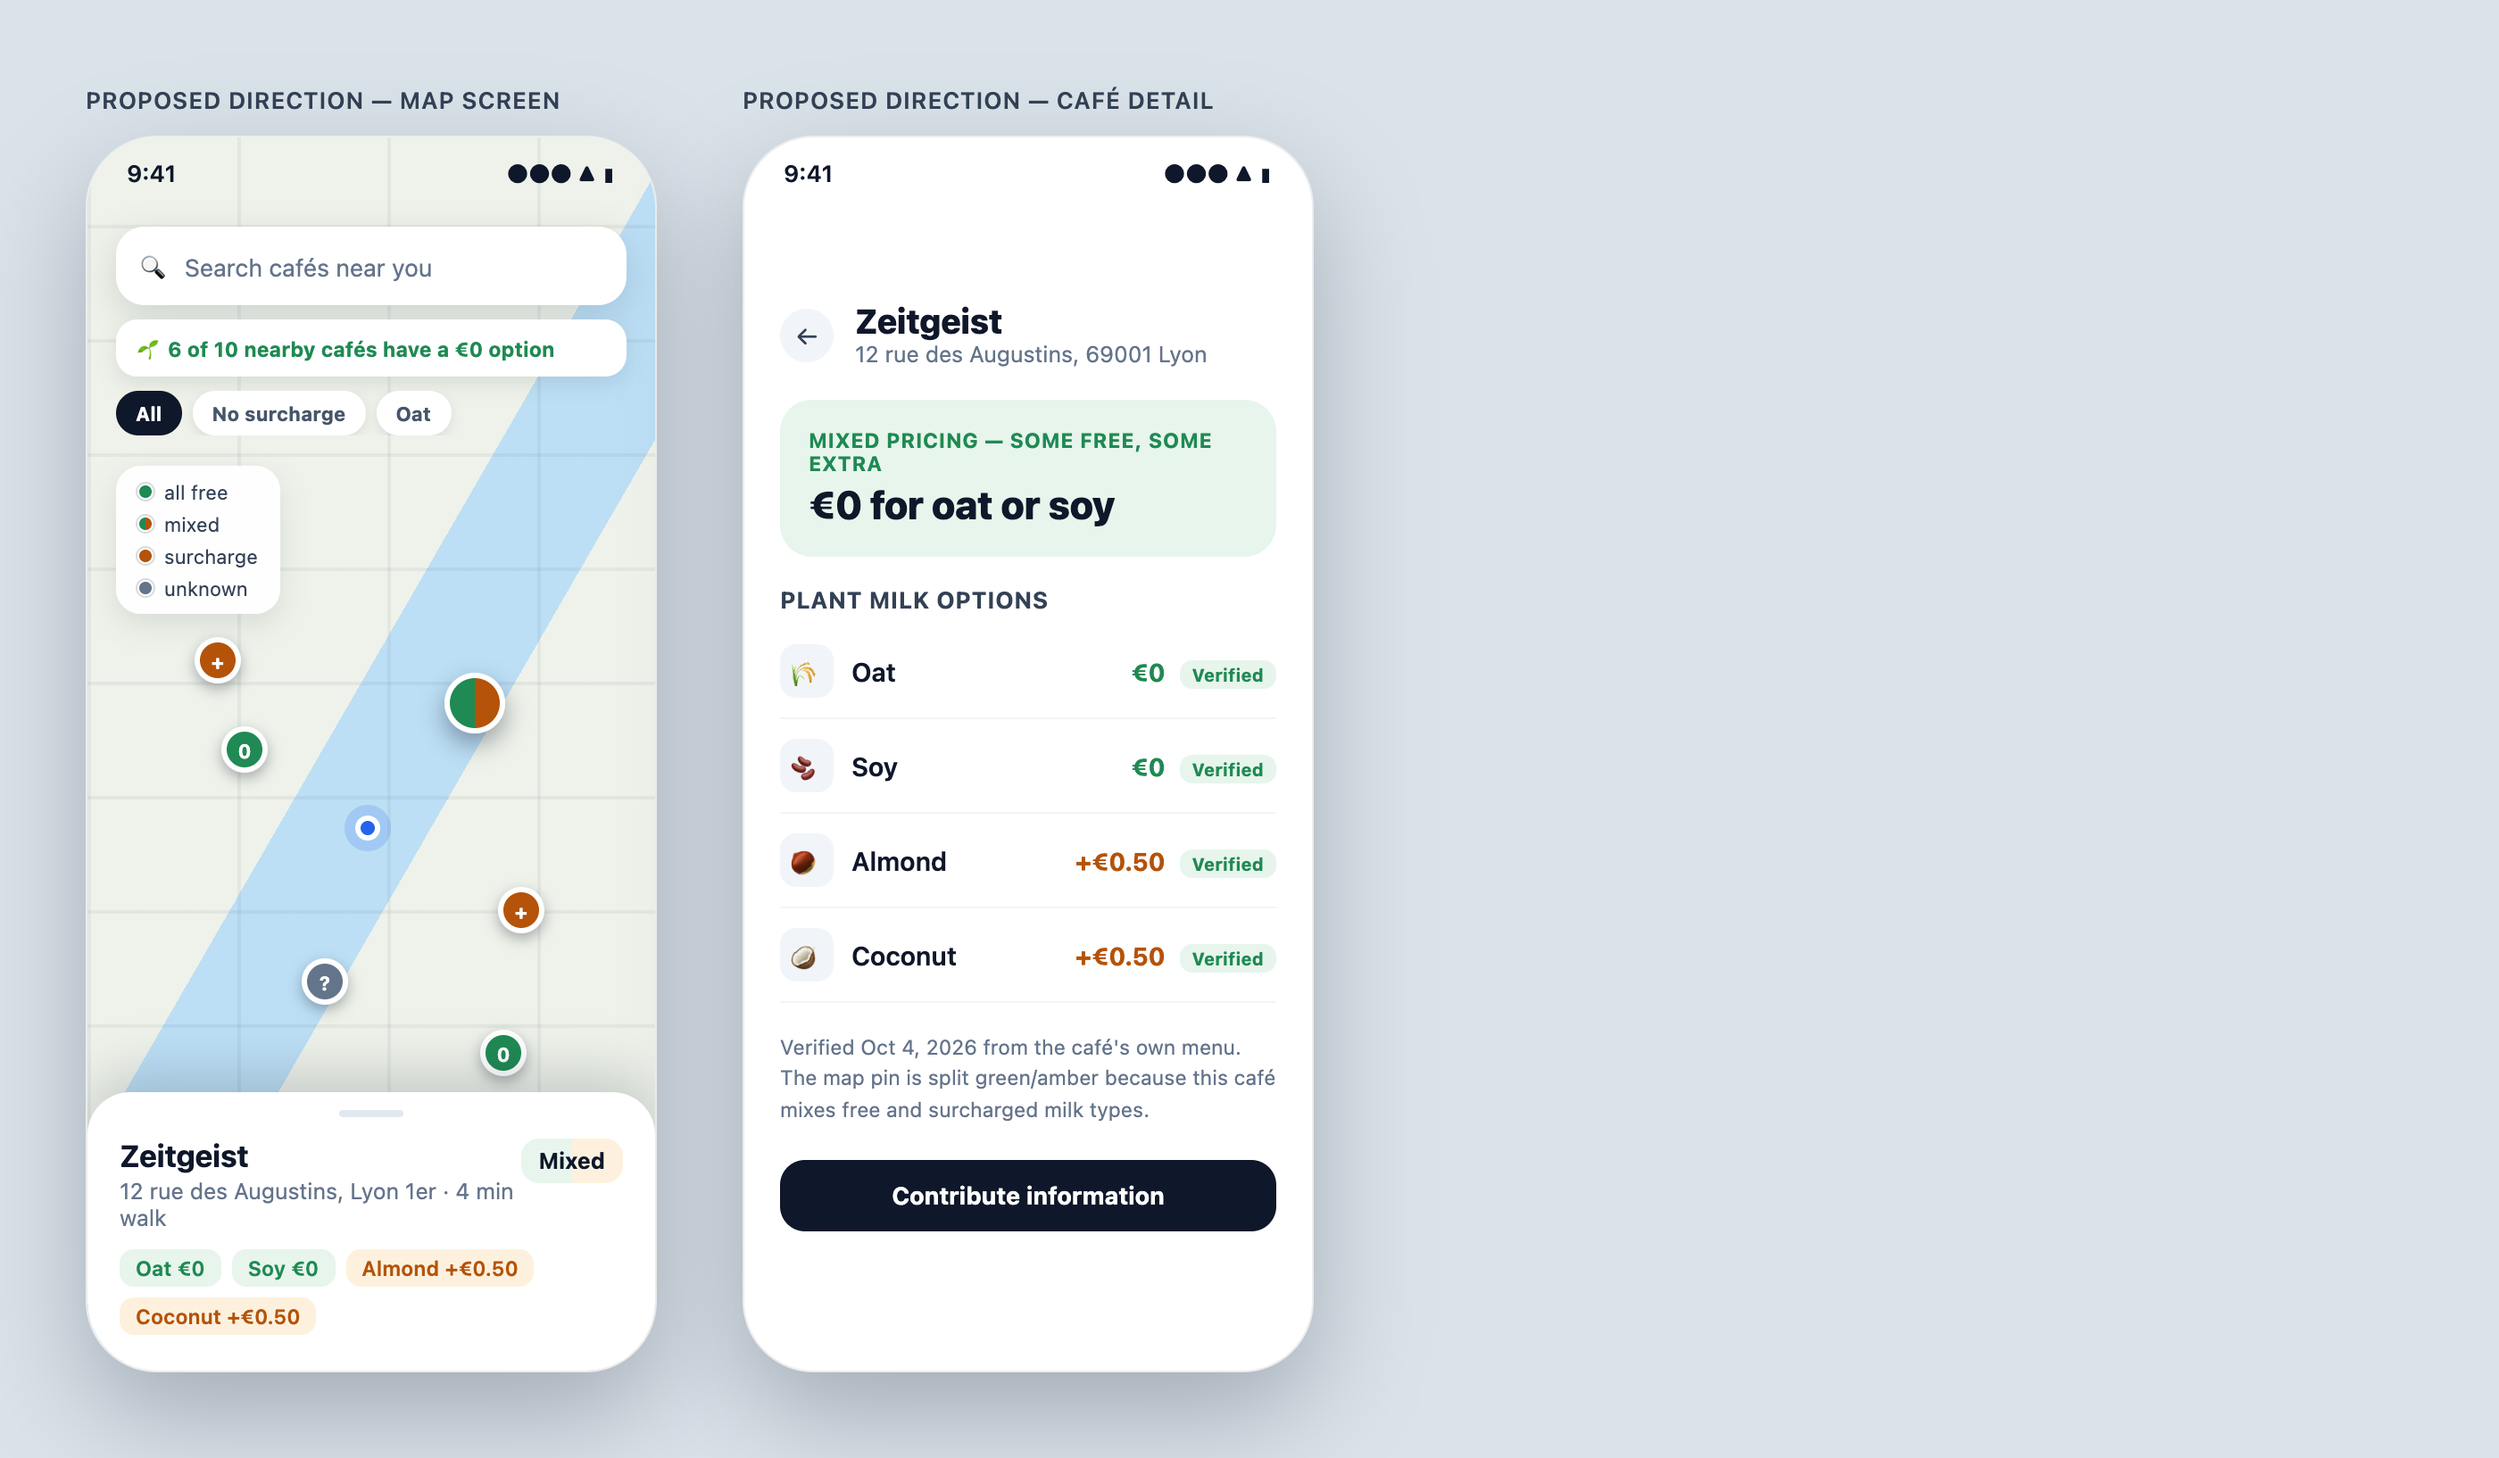
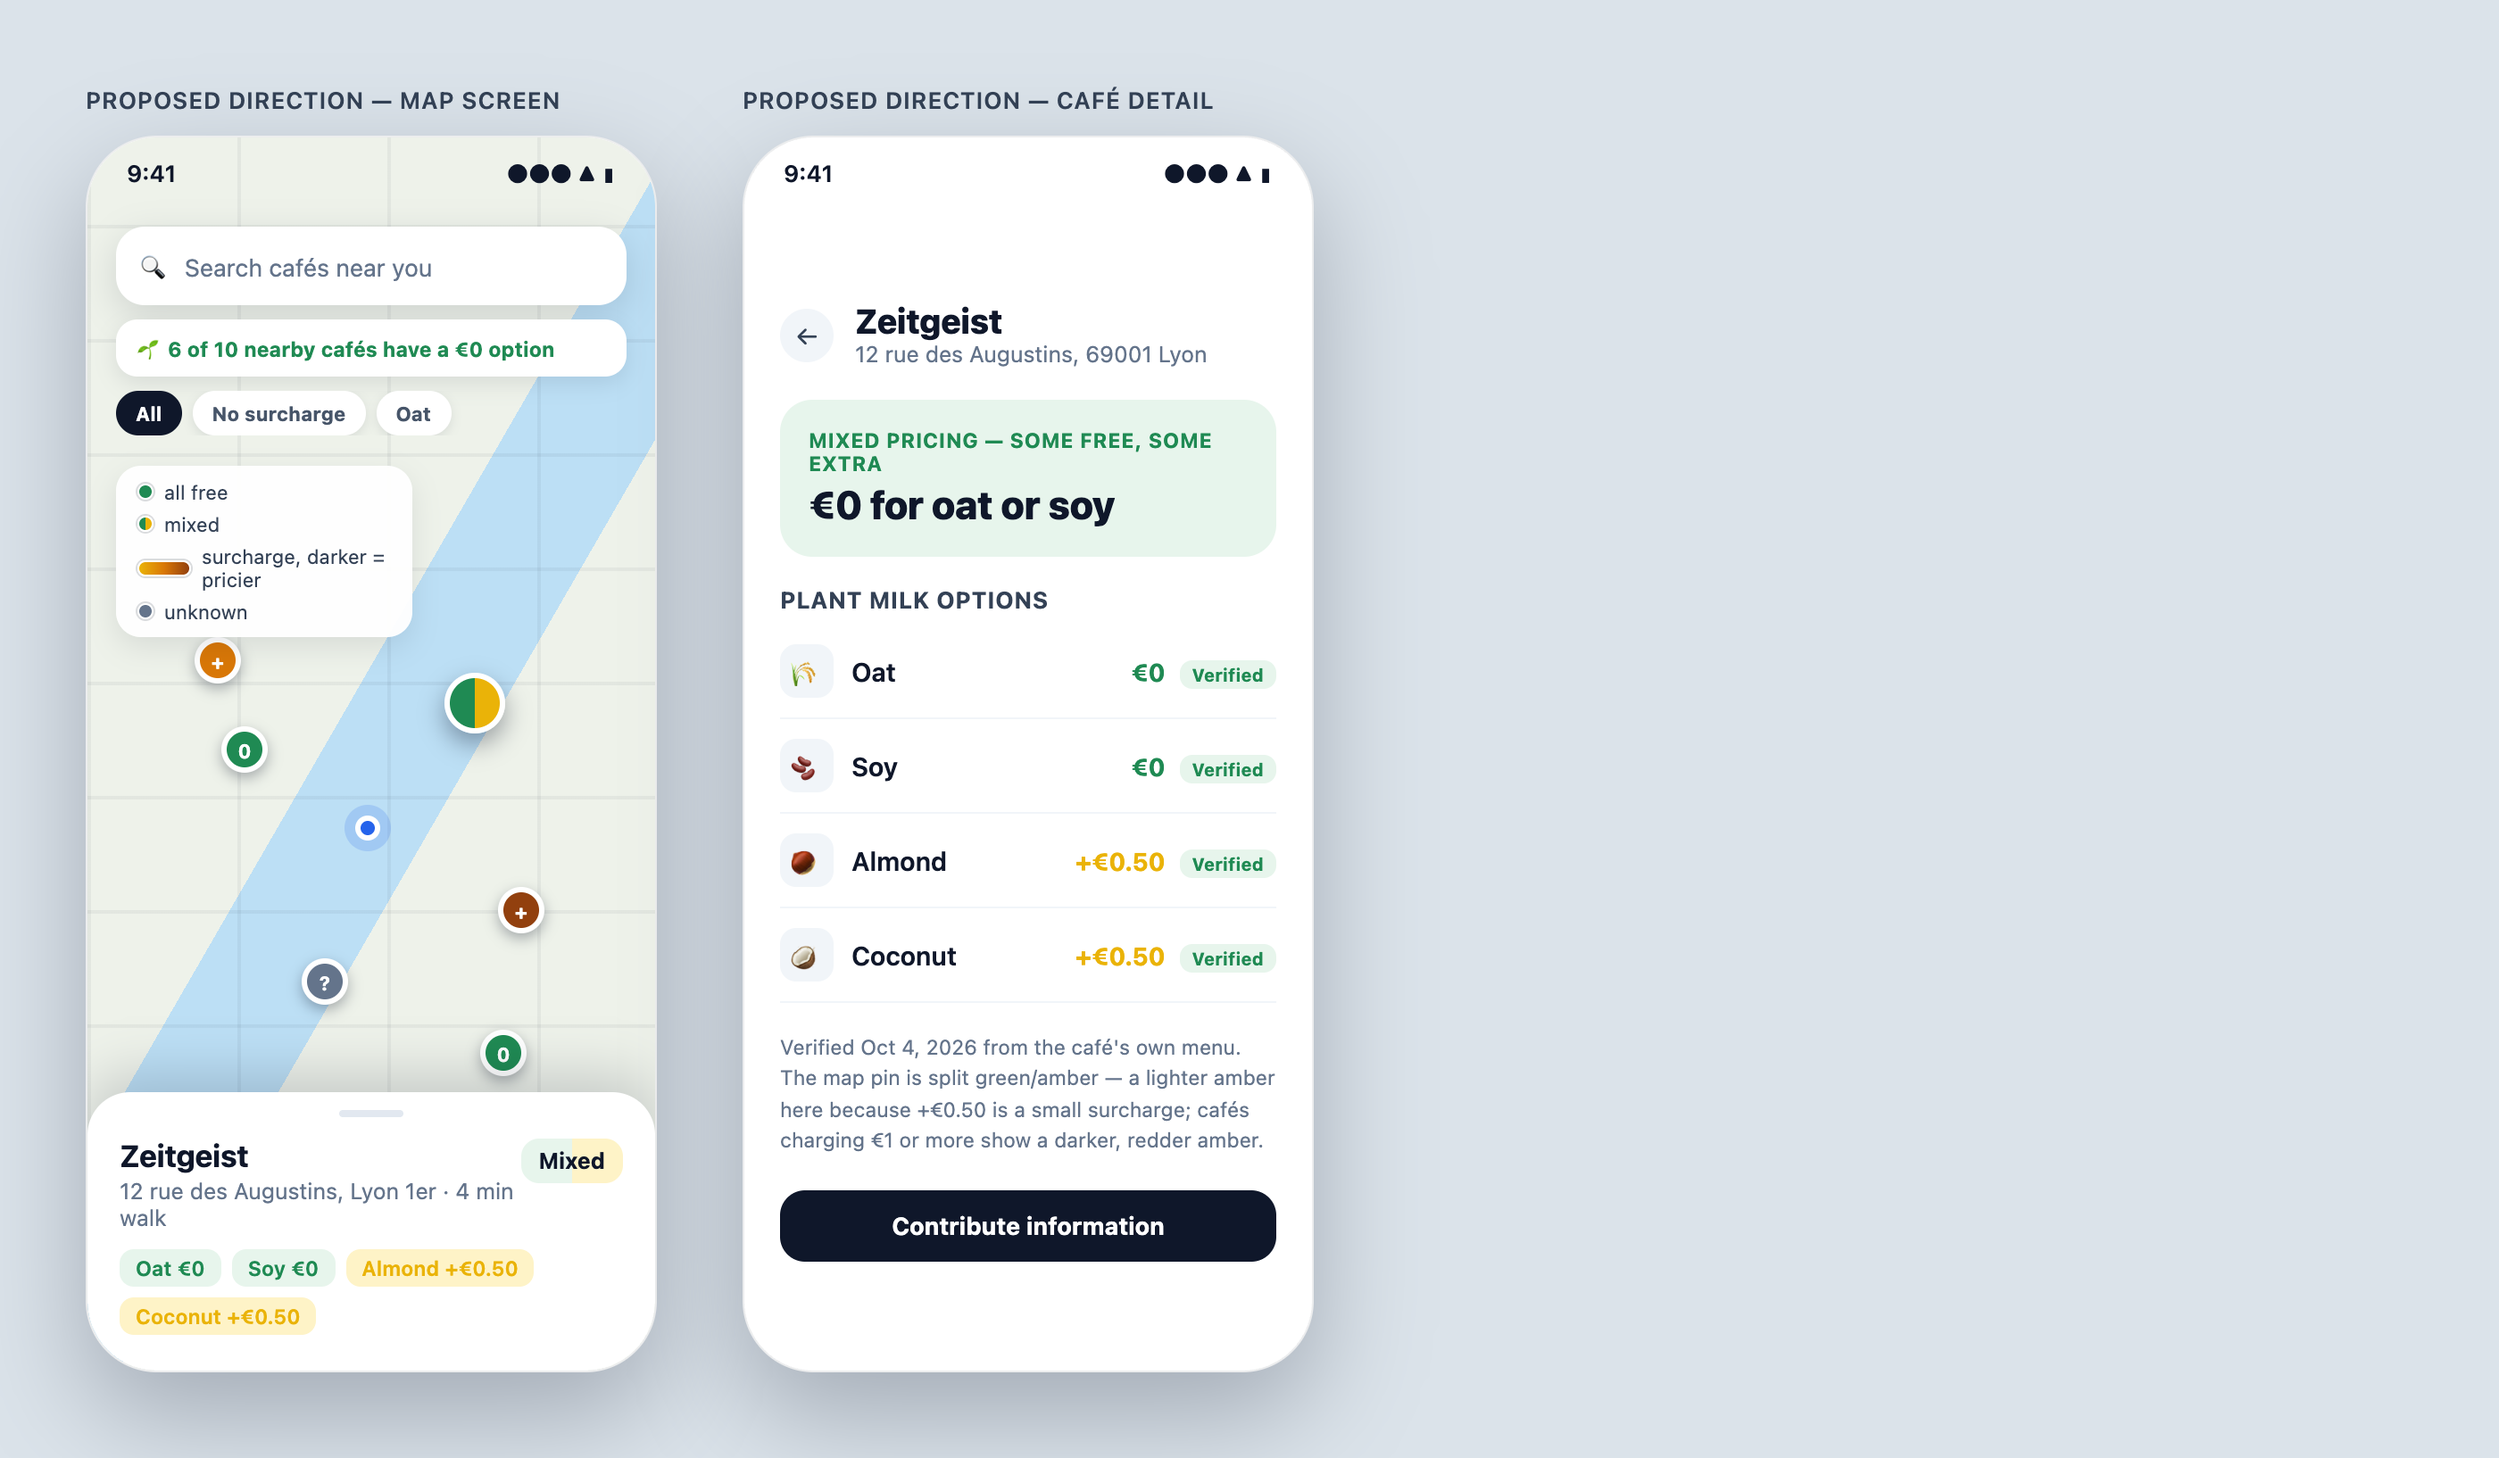
Scale the proposed direction's amber by surcharge size
Kevin asked for the surcharge color itself to vary by how large it
is, not just flag "surcharge vs. not". Amber is now a 3-step
gold/orange/brown scale (≤€0.50 / €0.51-0.99 / ≥€1.00); a café with
several paid milk types uses its highest surcharge for the pin color.

diff --git a/docs/design/first-exploration.md b/docs/design/first-exploration.md
@@ -91,6 +91,7 @@ Combines, rather than picks:
 
 - **From A**: the map stays primary and full-bleed; pins are plain colored dots (not icons/badges); tap → compact bottom sheet → tap again → full detail. This is the smallest delta from the current MapLibre implementation.
 - **Pin color, resolved with Kevin**: a 5-state convention — solid green (all milk types free), **split green/amber** (mixed, e.g. Zeitgeist: oat/soy free, almond/coconut +€0.50), solid amber (surcharge on everything), gray (unknown), outline (no plant milk). The split pin was Kevin's call over "best case wins" or "worst case wins" — it shows the mix honestly without requiring a tap, at the cost of one more visual state to design (a two-tone marker instead of a plain dot).
+- **Amber is a 3-step scale, not one color**: gold (≤€0.50), orange (€0.51–€0.99), deep brown (≥€1.00) — so a pin communicates roughly *how much* extra, not just *that* there's a surcharge. For a café with several paid milk types (e.g. Slake Terreaux: oat +€0.50, coconut +€0.70), the pin uses the **highest** surcharge among them, as a "most you might pay here" signal. Real thresholds from the Lyon data: Zeitgeist/Caillou/Joséphine/Slake-oat sit at €0.50 (gold), Slake-coconut at €0.70 (orange), Nuage Café and Café Bacatá at €1.00 (brown). The map legend shows this as a small gradient swatch rather than three separate dots, to keep the legend compact.
 - **From B**: a single filter toggle ("No surcharge") sits under the search bar — one chip, not a whole shelf system — plus the detail screen's "nearby alternatives" line when a café isn't the cheapest option.
 - **From C, kept restrained per Kevin**: one computed stat line ("🌱 6 of 10 nearby cafés have a €0 option") above the map — the mission signal, with no ribbons, no scoring, no "thank this café" mechanic. Nothing here needs product concepts beyond what `packages/domain` already models.
 - Detail screen keeps A's structure (hero badge, per-type rows with price + verification chip, verification footnote, "Contribute information" CTA for reported/unknown data) since none of the other directions improved on it.
@@ -105,6 +106,7 @@ Asked directly, Kevin chose:
 
 1. **Pin color for mixed cafés** → **split/dual-tone pin**, not "best case" or "worst case" wins. Reflected above and in the mockup's legend (all free / mixed / surcharge / unknown).
 2. **Activism framing** → **restrained**: keep the one computed stat line, skip the recognition ribbon and "thank this café" mechanic from Direction C for V1.
+3. **Amber shouldn't be one color** — Kevin asked for the surcharge color itself to vary by size, not just mark "surcharge vs. not." → amber is now a 3-step gold/orange/brown scale keyed to the surcharge amount (see the proposed-direction section above for thresholds and the max-surcharge rule for multi-type cafés).
 
 ## Still open
 
